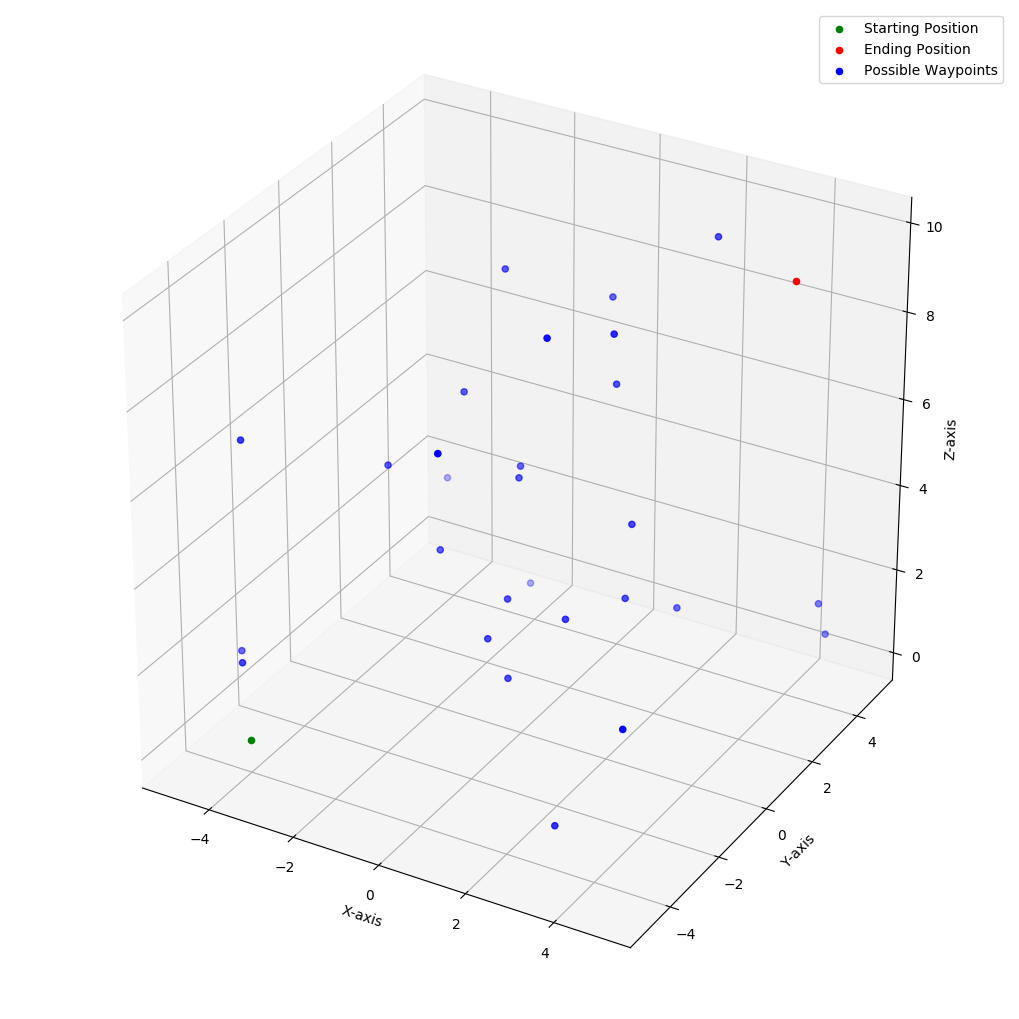
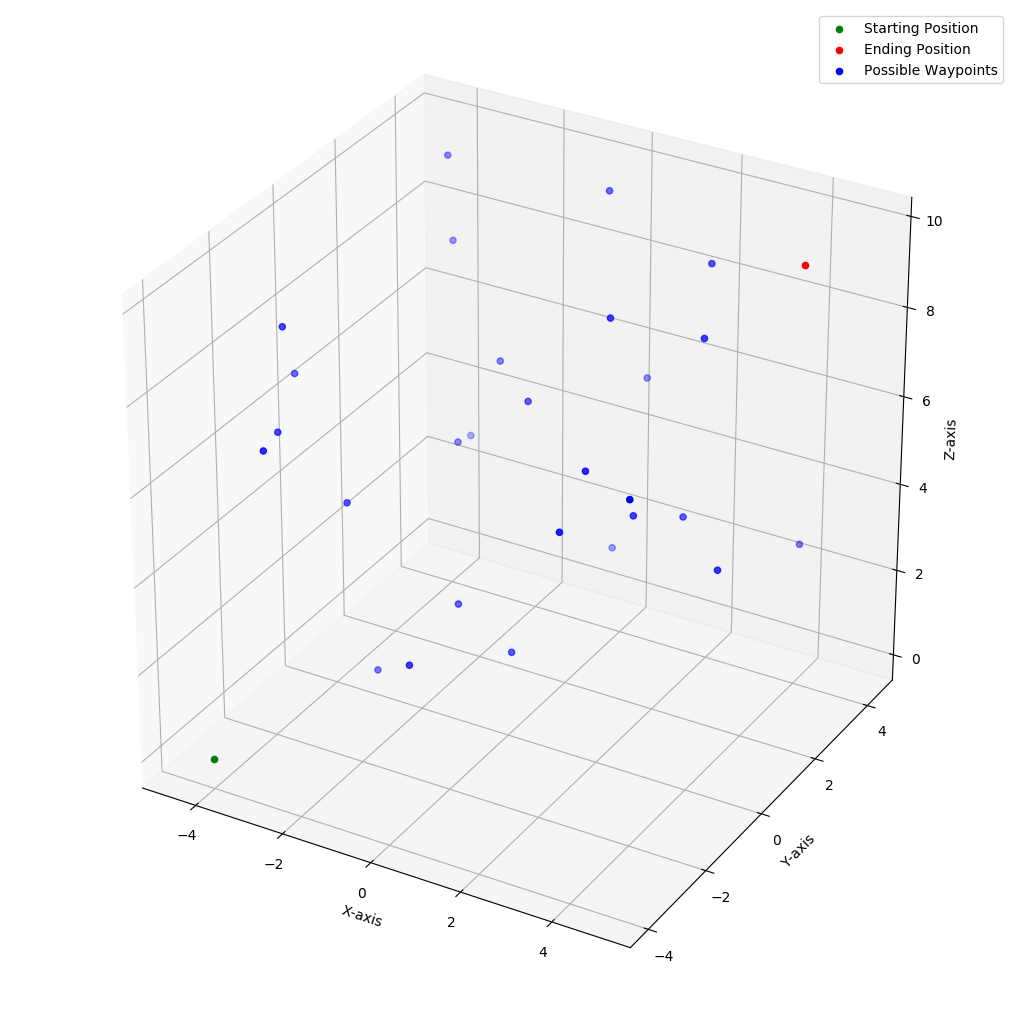
Updated PRM to include the beginings of finding all paths

diff --git a/TestGen/PRM.py b/TestGen/PRM.py
@@ -10,6 +10,7 @@ import matplotlib.pyplot as plt
 from Trajectory import Trajectory
 from mpl_toolkits.mplot3d import Axes3D
 import math
+from queue import *
 
 
 class PRM:
@@ -146,6 +147,9 @@ class PRM:
 
 	# Finds paths from start vertex to end vertex which satisfy the kinematic model
 	def find_all_paths(self, drone_kinematic_values, kinematic_sample_resolution=5):
+		# List which keeps track of the paths
+		un_finished_paths = Queue()
+
 		# Create a drone kinematic model at the starting position
 		# Create an initial state
 		starting_drone = DroneKinematic(mass=drone_kinematic_values['m'],
@@ -159,114 +163,161 @@ class PRM:
 																		velocity=drone_kinematic_values['velocity'],
 																		angular_vel=drone_kinematic_values['angular_velocity'])
 
-		# Create the reachability set generator object
-		reachability_space_generator = DroneReachabilitySet(drone_kinematic=starting_drone)
+		# Add this starting position to the possible paths array
+		un_finished_paths.put([starting_drone])
 
-		# Calculate the reachable space for that drone kinematic in one time step
-		positions = reachability_space_generator.calculate_reachable_area(sample_resolution=5)
+		counter = 0
+		# While there are unfinished paths
+		while not un_finished_paths.empty():
+			counter += 1
+			if counter > 3:
+				exit()
 
-		# Create the figure
-		fig = plt.figure()
-		ax = Axes3D(fig)
+			# Get the current path and current kinematic
+			current_path = un_finished_paths.get()
+			# The current kinematic is the last kinematic in the path
+			current_kinematic = current_path[-1]
 
-		# Create a list of standard nodes
-		x_vals = []
-		y_vals = []
-		z_vals = []
+			# Create the reachability set generator object
+			reachability_space_generator = DroneReachabilitySet(drone_kinematic=current_kinematic)
 
-		# Create a list of source and sink nodes
-		source_x = []
-		source_y = []
-		source_z = []
-		sink_x = []
-		sink_y = []
-		sink_z = []
+			# Calculate the reachable space for that drone kinematic in one time step
+			positions = reachability_space_generator.calculate_reachable_area(sample_resolution=5)
 
-		# For each node
-		for node in self.V:
-			# Get the x,y and z values
-			x, y, z = node.get_position()
+			# Create the figure
+			fig = plt.figure()
+			ax = Axes3D(fig)
 
-			# Check if this is a source
-			if node.get_source():
-				# Save the position of the source node
-				source_x.append(x)
-				source_y.append(y)
-				source_z.append(z)
-			# Check if this is a source
-			elif node.get_sink():
-				# Save the position of the source node
-				sink_x.append(x)
-				sink_y.append(y)
-				sink_z.append(z)
-			else:
-				# Save the positions or random nodes
-				x_vals.append(x)
-				y_vals.append(y)
-				z_vals.append(z)
+			# Create a list of standard nodes
+			x_vals = []
+			y_vals = []
+			z_vals = []
 
-		# For all waypoints which waypoints find which are inside the reachable area
-		waypoints = np.column_stack((x_vals, y_vals, z_vals))
-		inside = reachability_space_generator.is_in_hull(waypoints=waypoints)
+			# Create a list of source and sink nodes
+			source_x = []
+			source_y = []
+			source_z = []
+			sink_x = []
+			sink_y = []
+			sink_z = []
 
-		in_x = []
-		in_y = []
-		in_z = []
-		out_x = []
-		out_y = []
-		out_z = []
-		for i in range(0, len(inside)):
-			if inside[i]:
-				in_x.append(waypoints[i][0])
-				in_y.append(waypoints[i][1])
-				in_z.append(waypoints[i][2])
-			else:
-				out_x.append(waypoints[i][0])
-				out_y.append(waypoints[i][1])
-				out_z.append(waypoints[i][2])
+			# For each node
+			for node in self.V:
+				# Get the x,y and z values
+				x, y, z = node.get_position()
 
-		# Plot points inside and outside
-		ax.scatter(in_x, in_y, in_z, c='b', label='Waypoints Inside')
-		ax.scatter(out_x, out_y, out_z, c='m', label='Waypoints Outside')
+				# Check if this is a source
+				if node.get_source():
+					# Save the position of the source node
+					source_x.append(x)
+					source_y.append(y)
+					source_z.append(z)
+				# Check if this is a source
+				elif node.get_sink():
+					# Save the position of the source node
+					sink_x.append(x)
+					sink_y.append(y)
+					sink_z.append(z)
+				else:
+					# Save the positions or random nodes
+					x_vals.append(x)
+					y_vals.append(y)
+					z_vals.append(z)
 
-		# Plot the values
-		ax.scatter(source_x, source_y, source_z, c='g', label='Starting Position')
-		ax.scatter(sink_x, sink_y, sink_z, c='r', label='Ending Position')
+			# For all waypoints which waypoints find which are inside the reachable area
+			waypoints = np.column_stack((x_vals, y_vals, z_vals))
+			inside = reachability_space_generator.is_in_hull(waypoints=waypoints)
 
-		ax.scatter(positions[:, 0], positions[:, 1], positions[:, 2], c='k', label='Reachable Sample')
+			in_x = []
+			in_y = []
+			in_z = []
+			out_x = []
+			out_y = []
+			out_z = []
+			for i in range(0, len(inside)):
+				if inside[i]:
+					in_x.append(waypoints[i][0])
+					in_y.append(waypoints[i][1])
+					in_z.append(waypoints[i][2])
+				else:
+					out_x.append(waypoints[i][0])
+					out_y.append(waypoints[i][1])
+					out_z.append(waypoints[i][2])
 
-		# Get the points that make the hull
-		x_hull, y_hull, z_hull = reachability_space_generator.get_hull_simplices()
+			# Plot points inside and outside
+			ax.scatter(in_x, in_y, in_z, c='b', label='Waypoints Inside')
+			ax.scatter(out_x, out_y, out_z, c='m', label='Waypoints Outside')
 
-		# Plot the hull
-		for x, y, z in zip(x_hull, y_hull, z_hull):
-			ax.plot(x, y, z, color='r', linestyle='-', linewidth=0.75)
+			# Plot the values
+			ax.scatter(source_x, source_y, source_z, c='g', label='Starting Position')
+			ax.scatter(sink_x, sink_y, sink_z, c='r', label='Ending Position')
 
-		ax.legend()
-		plt.show()
+			ax.scatter(positions[:, 0], positions[:, 1], positions[:, 2], c='k', label='Reachable Sample')
 
-		for j in range(0, len(in_x)):
-			print("Starting Point: " + str(source_x[0]) + "," + str(source_y[0]) + "," + str(source_z[0]))
-			print("Considered Waypoint: " + str(in_x[j]) + "," + str(in_y[j]) + "," + str(in_z[j]))
+			# Get the points that make the hull
+			x_hull, y_hull, z_hull = reachability_space_generator.get_hull_simplices()
 
-			# Find the vector between them
-			vector_x = in_x[j] - source_x[0]
-			vector_y = in_y[j] - source_y[0]
-			vector_z = in_z[j] - source_z[0]
+			# Plot the hull
+			for x, y, z in zip(x_hull, y_hull, z_hull):
+				ax.plot(x, y, z, color='r', linestyle='-', linewidth=0.75)
 
-			magnitude = math.sqrt(vector_x**2 + vector_y**2 + vector_z**2)
+			# Set the labels
+			ax.set_xlabel('X-axis')
+			ax.set_ylabel('Y-axis')
+			ax.set_zlabel('Z-axis')
+			ax.legend()
+			plt.show()
 
-			print("Magnitude: " + str(magnitude))
+			# For each of the waypoints inside the hull
+			for j in range(0, len(in_x)):
+				print("Starting Point: " + str(source_x[0]) + "," + str(source_y[0]) + "," + str(source_z[0]))
+				print("Considered Waypoint: " + str(in_x[j]) + "," + str(in_y[j]) + "," + str(in_z[j]))
 
-			print("Vector Between Points: " + str(vector_x) + "," + str(vector_y) + "," + str(vector_z))
+				# Find the vector between them
+				vector_x = in_x[j] - source_x[0]
+				vector_y = in_y[j] - source_y[0]
+				vector_z = in_z[j] - source_z[0]
 
-			# Calculate the angle of that vector
-			ax = math.acos(vector_x / magnitude)
-			ay = math.acos(vector_y / magnitude)
-			az = math.acos(vector_z / magnitude)
+				# Calculate the magnitude of the vector
+				magnitude = math.sqrt(vector_x**2 + vector_y**2 + vector_z**2)
 
-			print("The angle of the vector is: " + str(math.degrees(ax)) + "," + str(math.degrees(ay)) + "," + str(math.degrees(az)))
-			print("------------")
+				print("Magnitude: " + str(magnitude))
+				print("Vector Between Points: " + str(vector_x) + "," + str(vector_y) + "," + str(vector_z))
+
+				# Calculate the angle of that vector
+				ax = math.acos(vector_x / magnitude)
+				ay = math.acos(vector_y / magnitude)
+				az = math.acos(vector_z / magnitude)
+
+				print("The angle of the vector is: " + str(math.degrees(ax)) + "," + str(math.degrees(ay)) + "," + str(math.degrees(az)))
+				print("---------------------------------")
+
+				# Create a new drone kinematic for this waypoint
+				new_kinematic = DroneKinematic(mass=drone_kinematic_values['m'],
+																			 arm_length=drone_kinematic_values['d'],
+																			 thrust_constant=drone_kinematic_values['kf'],
+																			 moment_constant=drone_kinematic_values['km'],
+																			 max_rotor_speed=drone_kinematic_values['max_rotor_speed'],
+																			 inertial_properties=drone_kinematic_values['inertial_properties'],
+																			 position=[in_x[j], in_y[j], in_z[j]],
+																			 attitude=[ax, ay, az],
+																			 velocity=[vector_x, vector_y, vector_z],
+																			 angular_vel=drone_kinematic_values['angular_velocity'])
+
+				# Add this new path to the unfinished paths queue
+				current_path.append(new_kinematic)
+				un_finished_paths.put(current_path)
+
+
+
+
+
+
+
+
+
+
+
 
 	# def getEdgesConnectedToVertex(self, vertex):
 	# 	edges_found = []
